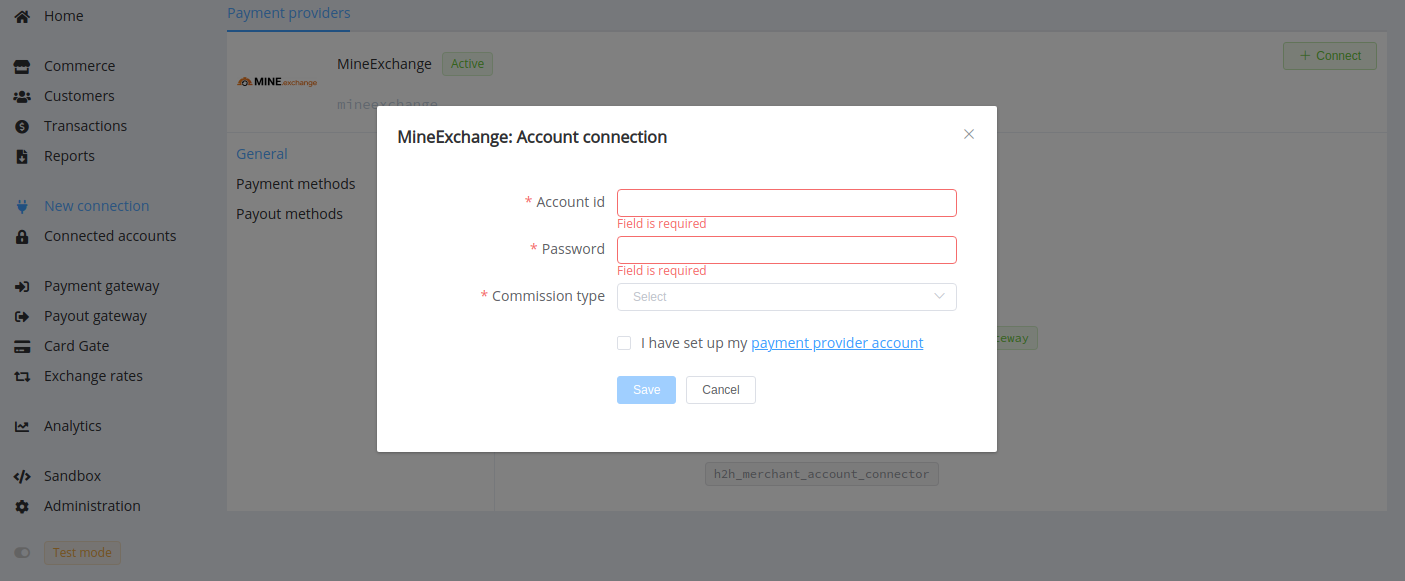
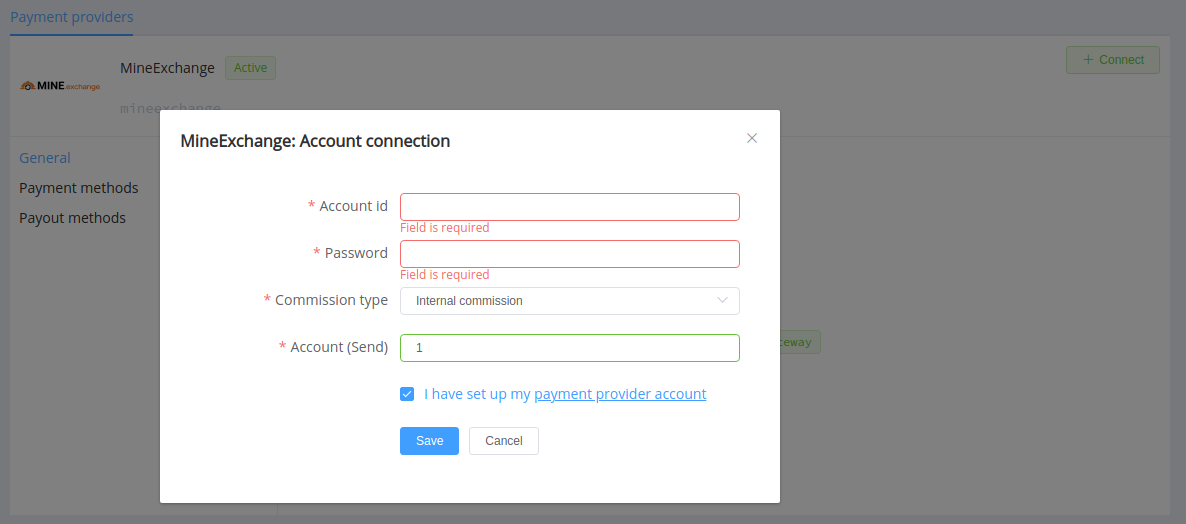
update psp guides

diff --git a/docs/connectors/paylink/index.md b/docs/connectors/paylink/index.md
@@ -1,105 +1,71 @@
 <img src="https://static.openfintech.io/payment_providers/paylink/logo.png?w=400" width="400px" >
 
+# PayLink (TAS Link)
 
-# PayLink Connector
+quote ""
+    TAS LINK is a high-tech and innovative company specializing in payment solutions.
 
-## Introduction
+**Website**: [taslink.com.ua](https://taslink.com.ua/)
 
-Here You can find  instructions for setting up **PayLink**  account.
+**Login**: [application](https://paylink.com.ua/app/login.php)
 
+Follow the guidance for setting up a connection with PayLink (TAS LINK) payment service provider.
 
-## Payouts
+## Set Up Account
 
-Connect **PayLink** **`Provider account`** to make payouts.
+### Step 1. Contact with PayLink Support Manager
 
-### Setup account
+Send a request on the [website](https://taslink.com.ua/#contacts) or call the hotline. Submit the required documents to verify your account and gain access.
 
-#### Step 1 Contact with PayLink Support Manager
-
-
-#### Step 2: Get required credentials
-
-- Merchant (Terminal ID)
-- Private Key
-- Account (Bank account)
-
-!!! success
-    You have configured account!
-
-
-### Connect account
-
-#### Step 1: Copy required credentials
-
-#### Step 2: Enter credentials
+### Step 2: Get credentials
 
 - Merchant (Terminal ID)
 - Private Key
-- Account (Bank account)
 
+## Connect Provider Account
 
-!!! tip
-    Press **`Connect`** at PayLink **`Provider Overview page`** in **`New connection`** section to open Connection form!
+### Step 1. Connect account at dashboard.paycore.io
 
+Press **Connect** at [*PayLink Provider Overview*](https://dashboard.paycore.io/connect-directory/payment-providers/paylink/general) page in *'New connection'* and choose **Provider account** option to open a Connection form.
 
-#### Step 3: Set up additional parameters 
+![Connect](images/provider-account.png)
 
-- Test mode
+Enter credentials:
 
-!!! note
-    These parameters are set according to your Merchant account type and it's available currencies!
+- Merchant (Terminal ID)
+- Private Key
+- Account (Bank Account)
 
+!!! attention "Be aware"
+    The *Account* field has its specificities to fill in:
 
+    * it is obligatory only for non-P2P connections
+    * and you shouldn't fill in the full IBAN (International Bank Account Number) there, just your bank account identifier (up to 14 digits)
 
-![Connect](images/paylink_provider_connect.png)
-
-
-!!! success
-    You have connected **PayLink** for payouts!
-
-
-
-## Payments
-
-Connect **PayLink** **`H2H merchant account`** to make payments.
-
-### Setup account
-
-#### Step 1 Contact with PayLink Support Manager
-
-#### Step 2: Get required credentials
-
-- Terminal ID
-- Private key
+Also, you should toggle P2P mode for connection in peer-to-peer payment network. And choose Test Mode if you want to test the connection with PayLink.
 
 !!! success
-    You have configured account!
+    You have connected **PayLink** account!
 
-### Connect account
+## Connect H2H Merchant Account
 
-#### Step 1: Copy required credentials
+### Step 1. Connect H2H account at dashboard.paycore.io
 
-#### Step 2 (OPTIONAL): Initialize the CardGate
+Press **Connect** at [*PayLink Provider Overview*](https://dashboard.paycore.io/connect-directory/payment-providers/paylink/general) page in *'New connection'* and choose **H2H Merchant account** option to open a Connection form.
 
-!!! info
-    Initialize the CardGate if it had not been done before.
+![Connect](images/h2h-merchant-account.png)
 
-![Connect](images/paylink_merchant_connect1.png)
+Enter credentials:
 
-![Connect](images/paylink_merchant_connect2.png)
+- Merchant (Terminal ID)
+- Private Key
 
-#### Step 3: Enter credentials
+Choose Test Mode to test the connection with PayLink. Also, check an option *Send Merchant URL* if you want to transfer Merchant URL (specified in the Commerce general settings) to the provider.
 
-
-#### Step 3: Set up additional parameters 
-
-- Test mode
-- Features
-
-!!! note
-    These parameters are set according to your Merchant account type and it's available currencies!
-
-![Connect](images/paylink_merchant_connect3.png)
+Choose Currency and Features. You can set these parameters according to available currencies and features for your PayLink account, but it is necessary to check details of the connection with your PayCore.io account manager.
 
 !!! success
-    You have connected **PayLink** for payments!
+    You have connected **PayLink** H2H merchant account!
+
+!!! question "Still looking for help connecting your PayLink account?"
+    [Please contact our support team!](mailto:support@paycore.io)

diff --git a/docs/connectors/coinspaid/index-draft.md b/docs/connectors/coinspaid/index-draft.md
@@ -1,0 +1,55 @@
+<img src="https://static.openfintech.io/payment_providers/name/logo.svg?w=400" width="400px" >
+
+# NAME Connector
+
+> SLOGAN
+
+**Website**: [NAME](WEBSITE)
+**Login**: [NAME](WEBSITE)
+
+Follow the guidance for setting up a connection with NAME payment service provider.
+
+## Set Up Account
+
+### Step 1: Contact NAME support manager
+
+Send a request on the [website](WEBSITE) or call the hotline. Submit the required documents to verify your account and gain access.
+
+### Step 2: Get credentials
+
+Credentials that have to be issued:
+
+## Connect Provider Account
+
+### Step 1. Connect account at dashboard.paycore.io
+
+Press **Connect** at [*NAME Provider Overview*](https://dashboard.paycore.io/connect-directory/payment-providers/NAME/general) page in *'New connection'* and choose **Provider account** option to open Connection form.
+
+![Connect](images/provider-account.png)
+
+Enter credentials:
+
+[//]: # (Also, choose Test Mode for test connection with NAME, and P2P mode for connection in  peer-to-peer payment network.)
+
+!!! success
+    You have connected **NAME** account!
+
+## Connect H2H Merchant Account
+
+### Step 1. Connect H2H account at dashboard.paycore.io
+
+Press **Connect** at [*NAME Provider Overview*](https://dashboard.paycore.io/connect-directory/payment-providers/NAME/general) page in *'New connection'* and choose **H2H Merchant account** option to open Connection form.
+
+![Connect](images/h2h-merchant-account.png)
+
+Enter credentials:
+
+[//]: # (Choose Test Mode for test connection with NAME.)
+
+Choose Currency and Features. You can set these parameters according to available currencies and features for your NAME account, but it is necessary to check details of the connection with your PayCore.io account manager.
+
+!!! success
+    You have connected **NAME** H2H merchant account!
+
+!!! question "Still looking for help connecting your NAME account?"
+    [Please contact our support team!](mailto:support@paycore.io)

diff --git a/docs/connectors/mineexchange/index.md b/docs/connectors/mineexchange/index.md
@@ -19,7 +19,7 @@ Send a request on the [website](https://mine.exchange/en/). Submit the required 
 
 ### Step 2: Get credentials
 
-To connect Mine.Exchange, you need to know your **key to API authentication**.
+To connect Mine.Exchange, you need to know your **key to API authentication**. Also, it is worth clarifying with the manager which number you should use as the `account_send` (Mine.exchange internal account to send payouts).
 
 ## Connect Provider Account
 
@@ -31,7 +31,7 @@ Press **Connect** at [*Mine.Exchange Provider Overview*](https://dashboard.payco
 
 Choose Account ID for the connection: it can be any number value.
 
-Enter the key to API authentication in the *Password* field.
+Enter the key to API authentication into the *Password* field and the `account_send` into *Account (Send)*.
 
 Choose your commission (fee) type: Internal or External according to your Mine.Exchange account settings.
 

diff --git a/docs/connectors/coinspaid/index.md b/docs/connectors/coinspaid/index.md
@@ -1,0 +1,6 @@
+<img src="https://static.openfintech.io/payment_providers/coinspaid/logo.svg?w=400" width="400px" >
+
+# CoinsPaid Connector
+
+!!! question "Looking for help connecting your CoinsPaid account?"
+    [Please contact our support team](mailto:support@paycore.io)!
